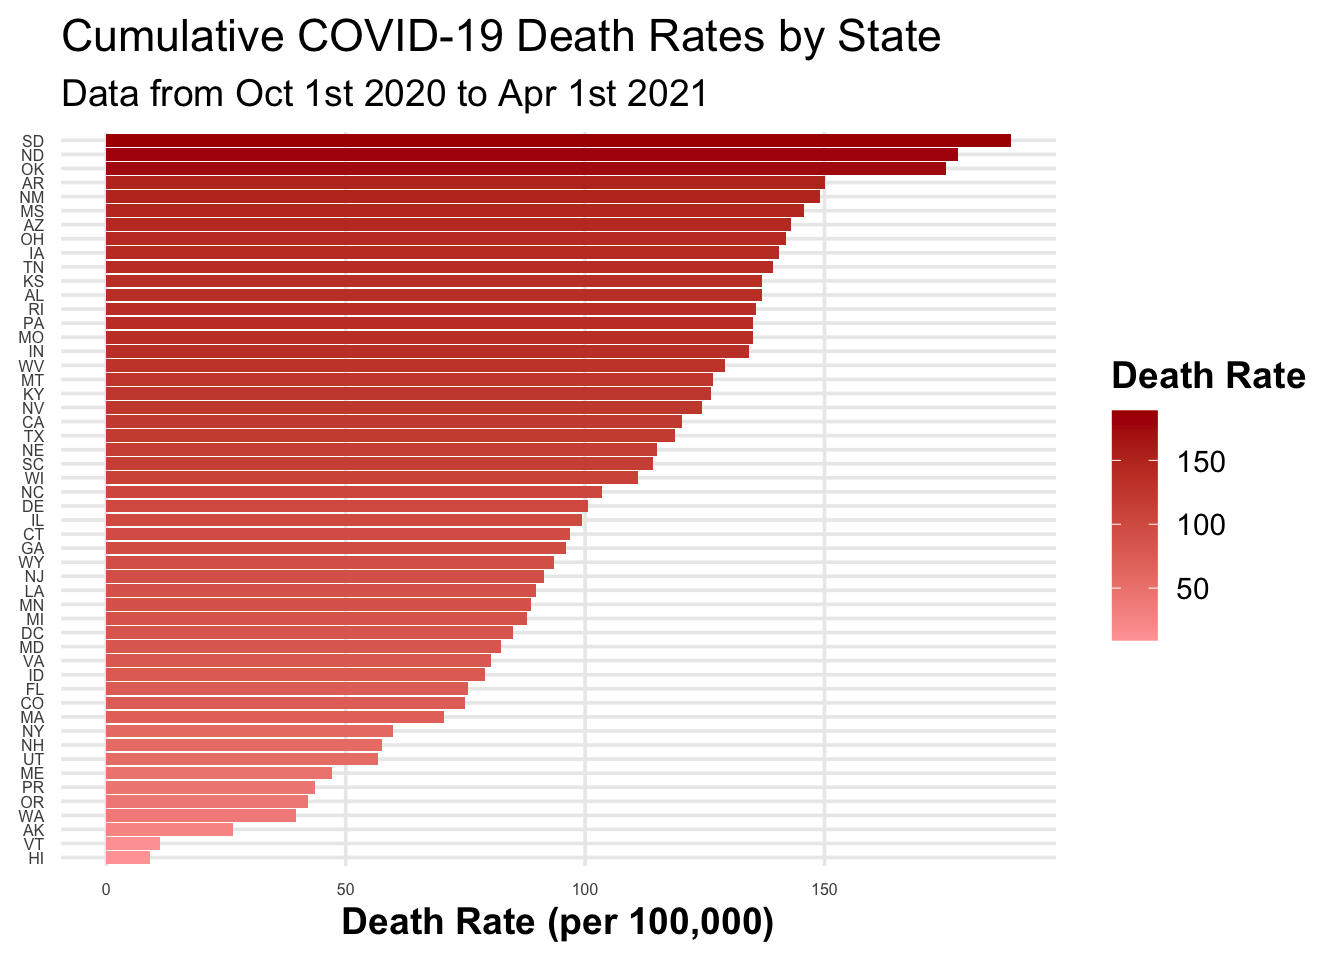
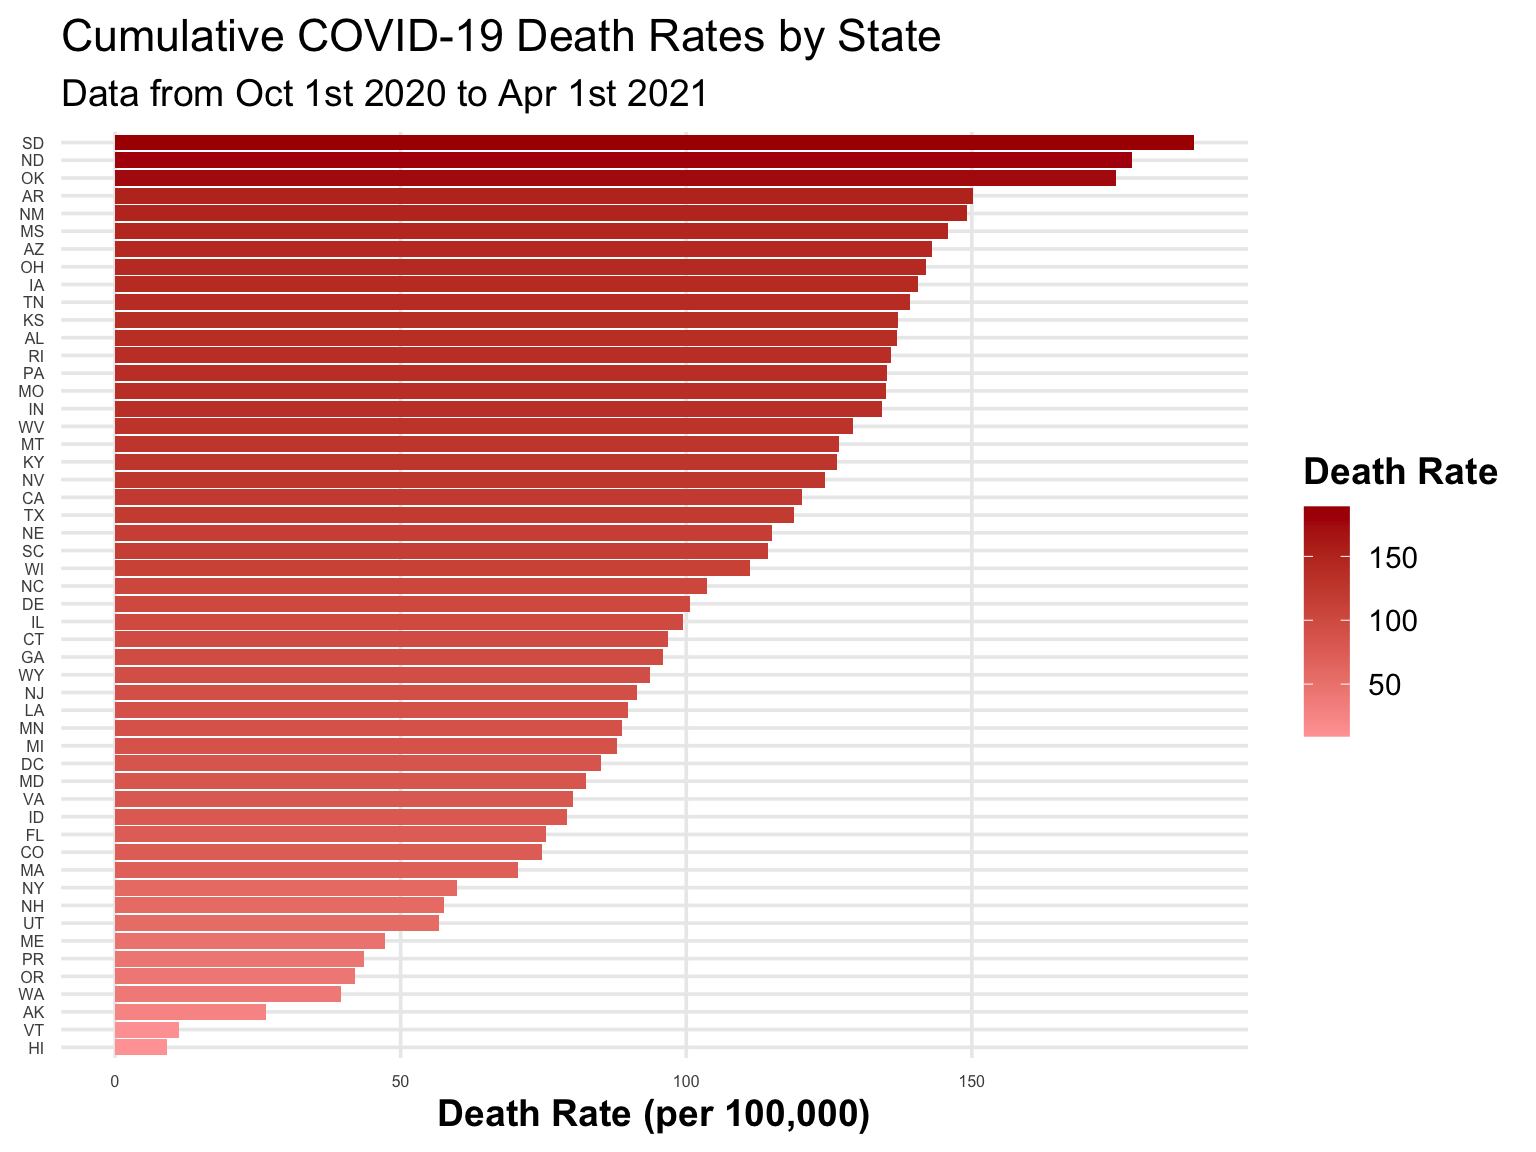
added more results for Q3

diff --git a/code/final-project.html b/code/final-project.html
@@ -139,9 +139,9 @@ div.csl-indent {
 </div>
 <p>As can be seen from the trend plot which depicts the rates of COVID-19 cases, deaths, and hospitalizations from 01/25/2021 to 11/30/2024, there seems to be 3 waves of COVID-19 spread. The first one occurs from Oct 2020 to Apr 2021, where a peak in cases, deaths, and hospitalizations can be observed. Likewise, it appears that there was another wave between Jul 2021 to early Dec 2021. Lastly, there was a wave from early Dec 2021 to Apr 2022.</p>
 <p><strong>First Wave</strong></p>
-<p>This period marked the first significant rise in COVID-19 rates, with sharp increases across all metrics—cases, deaths, and hospitalizations. The wave coincides with the colder months when indoor gatherings increased and may also reflect the impact of delayed public health measures or variants circulating during this time. The peak of this wave aligns with the early rollout of vaccines, which likely contributed to its decline as more people gained access to immunization.</p>
+<p>This period marked the first significant rise in COVID-19 rates, with sharp increases across all metrics: cases, deaths, and hospitalizations. The wave coincides with the colder months when indoor gatherings increased and may also reflect the impact of delayed public health measures or variants circulating during this time.</p>
 <p><strong>Second Wave</strong></p>
-<p>The summer and early winter of 2021 saw a resurgence in COVID-19 activity, driven largely by the spread of the Delta variant. This wave demonstrates a rapid increase in hospitalizations and deaths following the initial rise in cases. Despite vaccination efforts, breakthrough infections and the highly contagious nature of Delta played significant roles in this period. Public health measures such as mask mandates were reinstituted in some areas, but the surge continued through the fall.</p>
+<p>The summer and early winter of 2021 saw a resurgence in COVID-19 activity, driven largely by the spread of the Delta variant. This wave demonstrates a rapid increase in hospitalizations and deaths following the initial rise in cases. Despite vaccination efforts, breakthrough infections and the highly contagious nature of Delta played significant roles in this period.</p>
 <p><strong>Third Wave</strong></p>
 <p>The final and most intense wave depicted occurred during the winter of 2021-2022, fueled by the Omicron variant. While cases skyrocketed to unprecedented levels due to Omicron’s transmissibility, deaths and hospitalizations rose less dramatically than in previous waves, likely reflecting the variant’s comparatively milder effects and increased vaccination coverage. However, the healthcare system faced immense strain due to the sheer number of cases.</p>
 </section>
@@ -239,6 +239,9 @@ div.csl-indent {
 <li>Death Proportion (DP): 57.82 deaths per 100,000 population.</li>
 </ul>
 <p>For each wave, we computed the CFR, HR, and the DP. It can be observed that total cases peaked in Wave 3, while total deaths and hospitalizations decreased relative to Wave 1. The CFR showed a pronounced decline across waves, decreasing from 1,553.42 in Wave 1 to 632.79 in Wave 3 (59.26%). The HR also declined significantly by Wave 3, from 7,654.67 in Wave 1 to 3,853.12 in Wave 3. Similarly, the DP decreased steadily across the waves, dropping from 103.90 in Wave 1 to 57.82 in Wave 3.</p>
+<p>We conducted pairwise statistical tests on the CFR, HR, and DP metrics to evaluate differences across the pandemic waves. Since these metrics did not follow a normal distribution, we utilized the Wilcoxon rank-sum test, a non-parametric alternative to the independent t-test. The analysis revealed a statistically significant decline in the CFR from Wave 1 to Wave 2, with a p-value of less than 0.001. Similarly, the CFR dropped significantly from Wave 2 to Wave 3. When comparing Wave 1 to Wave 3, the difference was also statistically significant at the 0.05 significance level.</p>
+<p>For the HR, there was no statistically significant difference between Wave 1 and Wave 2, as indicated by a p-value of 0.757. However, a notable decline in HR was observed in Wave 3 compared to both Wave 1 and Wave 2, with p-values of less than 0.001. These findings demonstrate a clear downward trend in the CFR across all three waves, while the HR remained relatively stable between the first two waves before showing a significant reduction in the third wave.</p>
+<p>Finally for the DP, there was a statistically significant difference between Wave 1 and Wave 2, with a p-value of less than 0.001. A highly significant difference was also observed between Wave 1 and Wave 3, indicating a sharp decline in DP over time. However, the comparison between Wave 2 and Wave 3 revealed no statistically significant difference, as evidenced by a p-value of 0.647.</p>
 </section>
 </section>
 <section id="q4-estimate-excess-mortality-for-each-week-for-each-state.-check-if-excess-mortality-can-be-explained-by-covid-19" class="level2">
@@ -1550,21 +1553,21 @@ div.csl-indent {
 <div class="cell-output-display">
 <div>
 <figure class="figure">
-<p><img src="final-project_files/figure-html/death%20rate%20by%20state-1.png" class="img-fluid figure-img" width="672"></p>
+<p><img src="final-project_files/figure-html/death%20rate%20by%20state-1.png" class="img-fluid figure-img" width="768"></p>
 </figure>
 </div>
 </div>
 <div class="cell-output-display">
 <div>
 <figure class="figure">
-<p><img src="final-project_files/figure-html/death%20rate%20by%20state-2.png" class="img-fluid figure-img" width="672"></p>
+<p><img src="final-project_files/figure-html/death%20rate%20by%20state-2.png" class="img-fluid figure-img" width="768"></p>
 </figure>
 </div>
 </div>
 <div class="cell-output-display">
 <div>
 <figure class="figure">
-<p><img src="final-project_files/figure-html/death%20rate%20by%20state-3.png" class="img-fluid figure-img" width="672"></p>
+<p><img src="final-project_files/figure-html/death%20rate%20by%20state-3.png" class="img-fluid figure-img" width="768"></p>
 </figure>
 </div>
 </div>
@@ -1576,21 +1579,21 @@ div.csl-indent {
 <div class="cell-output-display">
 <div>
 <figure class="figure">
-<p><img src="final-project_files/figure-html/unnamed-chunk-7-1.png" class="img-fluid figure-img" width="672"></p>
+<p><img src="final-project_files/figure-html/unnamed-chunk-7-1.png" class="img-fluid figure-img" width="768"></p>
 </figure>
 </div>
 </div>
 <div class="cell-output-display">
 <div>
 <figure class="figure">
-<p><img src="final-project_files/figure-html/unnamed-chunk-7-2.png" class="img-fluid figure-img" width="672"></p>
+<p><img src="final-project_files/figure-html/unnamed-chunk-7-2.png" class="img-fluid figure-img" width="768"></p>
 </figure>
 </div>
 </div>
 <div class="cell-output-display">
 <div>
 <figure class="figure">
-<p><img src="final-project_files/figure-html/unnamed-chunk-7-3.png" class="img-fluid figure-img" width="672"></p>
+<p><img src="final-project_files/figure-html/unnamed-chunk-7-3.png" class="img-fluid figure-img" width="768"></p>
 </figure>
 </div>
 </div>
